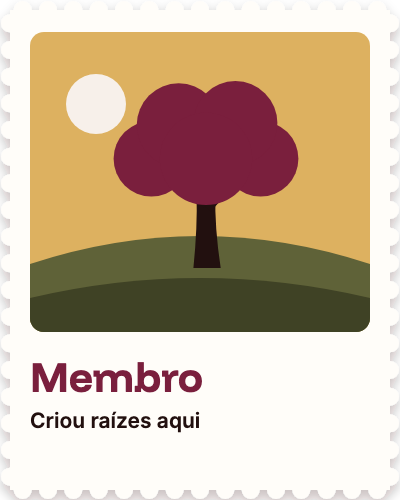
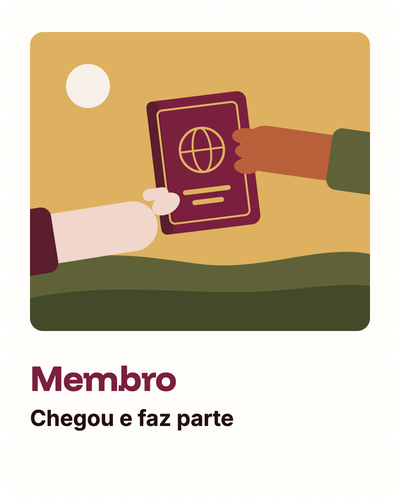
Selos no fim do check-in, rótulo Visitante / Membro, pesquisa anônima e formulário identificado

diff --git a/src/pages/Checkin.tsx b/src/pages/Checkin.tsx
@@ -59,9 +59,10 @@ function Success({ done, previa }: { done: Done; previa?: boolean }) {
           <h1>Presença confirmada!</h1>
           <p className="dn-bilhete__texto">Que bom ter você aqui.</p>
           {!!done.junto?.length && <QuemVeio codigo={done.codigo} junto={done.junto} />}
+          <img className="dn-selo" src={`/selos/postal-${done.categoria === 'convidado' ? 'convidado' : 'visitante'}.png`} alt={`Selo de ${done.categoria === 'convidado' ? 'Convidado' : 'Visitante'}`} />
           <dl className="dn-dados">
             <div><dt>Nome</dt><dd>{done.nome}</dd></div>
-            <div><dt>Status</dt><dd>Visitante</dd></div>
+            <div><dt>Status</dt><dd>{done.categoria === 'convidado' ? 'Convidado' : 'Visitante'}</dd></div>
           </dl>
           <p className="dn-bilhete__texto">Aproveite o encontro. Qualquer dúvida, chame alguém do staff.</p>
         </section>
@@ -146,7 +147,7 @@ export function Checkin() {
     };
   }, [step, email, slug, meta, texts, inscritoNome]);
 
-  if (previaCartao) return <Success previa done={{ nome: 'Maria Silva', categoria: 'convidado', edicao: 'Primeiro encontro', selo: '', codigo: 'EXEMPLO', repetido: false }} />;
+  if (previaCartao) return <Success previa done={{ nome: 'Maria Silva', categoria: new URLSearchParams(window.location.search).get('tipo') === 'visitante' ? 'participante' : 'convidado', edicao: 'Primeiro encontro', selo: '', codigo: 'EXEMPLO', repetido: false }} />;
   if (done) return <Success done={done} />;
   if (step === 'recepcao') return (
     <main className="dn-pg"><div className="dn-pg-faixa" /><img className="dn-pg-logo" src="/brand/communicali-horizontal.png" alt="ComuniCALI" />

diff --git a/src/forms/PublicFormPage.tsx b/src/forms/PublicFormPage.tsx
@@ -327,10 +327,14 @@ export function PublicFormPage({ preset, slugFixo }: { preset?: FormPreset; slug
         <span className="cf-done-mark"><img src="/brand/cali-oak-mark-light.svg" alt="" /></span>
         {(() => {
           // Mensagem própria do formulário: a primeira frase curta vira o título; o resto, o texto.
-          const custom = form.success_text?.trim();
+          const bruto = form.success_text?.trim();
+          // Uma última linha [texto](/endereço) vira um botão que abre em outra aba (ex.: da pesquisa anônima para o formulário identificado).
+          const ligacao = bruto?.match(/\n?\[([^\]]+)\]\((\/[^)\s]*)\)\s*$/);
+          const custom = ligacao ? bruto!.slice(0, ligacao.index).trim() : bruto;
+          const botao = ligacao ? <a className="cf-primary" href={ligacao[2]} target="_blank" rel="noopener noreferrer" style={{ textDecoration: 'none', marginTop: 18 }}>{ligacao[1]} <ArrowRight size={18} /></a> : null;
           if (!custom) return <><h1>Muito obrigado!</h1><p>Recebemos suas respostas e agradecemos a colaboração.</p></>;
           const match = custom.match(/^(.{4,70}?[!.?])\s+(.+)$/s);
-          return match ? <><h1>{match[1]}</h1><p>{match[2]}</p></> : <><h1>Muito obrigado!</h1><p>{custom}</p></>;
+          return <>{match ? <><h1>{match[1]}</h1><p>{match[2]}</p></> : <><h1>Muito obrigado!</h1><p>{custom}</p></>}{botao}</>;
         })()}
       </div>}
     </main>

diff --git a/src/dinamica/Apoio.tsx b/src/dinamica/Apoio.tsx
@@ -112,7 +112,7 @@ function Recepcao({ token, qr }: { token: string; qr: string }) {
       <ul className="dn-lista">
         {visiveis.map((item) => (
           <li key={`${item.fonte}-${item.id}`} className={`dn-p-${corCategoria(item.categoria)}${item.chegou_em ? ' chegou' : ''}`}>
-            <span><b>{item.nome}</b><small><i className={`dn-cat dn-cat--${corCategoria(item.categoria)}`}>{item.categoria === 'Participante' ? 'Participante / Membro' : item.categoria}</i>{item.email ? ` ${item.email}` : ''}</small></span>
+            <span><b>{item.nome}</b><small><i className={`dn-cat dn-cat--${corCategoria(item.categoria)}`}>{item.categoria === 'Participante' ? 'Visitante / Membro' : item.categoria}</i>{item.email ? ` ${item.email}` : ''}</small></span>
             {item.fonte === 'organizacao' ? <em>{item.chegou_em ? 'Chegou' : ''}</em>
               : item.chegou_em ? <button type="button" className="dn-link" onClick={() => void marcar(item, false)}>Chegou às {new Date(item.chegou_em).toLocaleTimeString('pt-BR', { hour: '2-digit', minute: '2-digit', timeZone: 'America/Sao_Paulo' })} ✓ (desfazer)</button>
               : <button type="button" className="dn-btn" onClick={() => void marcar(item, true)}>Chegou</button>}

diff --git a/src/dinamica/dinamica.css b/src/dinamica/dinamica.css
@@ -192,3 +192,5 @@ a.dn-btn{display:flex;align-items:center;justify-content:center;text-decoration:
 .dn-cat--kids{background:#3F8F4F;color:#fff}
 .dn-cat--participante{background:#7A1F3D;color:#fff}
 .dn-cat--convidado{background:#D9A21B;color:#22100F}
+
+.dn-selo{display:block;width:150px;height:auto;margin:6px auto 2px;filter:drop-shadow(0 6px 10px rgba(0,0,0,.28))}

diff --git a/docs/HANDOFF.md b/docs/HANDOFF.md
@@ -11,6 +11,9 @@ Documento único de continuidade entre as IAs que trabalham com Patrícia Lima. 
 ### 2026-11-13 | Check-in como Visitante, e-mails do dia do encontro e correções (publicado)
 - Check-in: a tela de presença mostra só Nome e "Status: Visitante" (sem categoria, sem milhas, sem lembrete de devolver o crachá: neste encontro todos ficam com o crachá). E-mail que não está na lista vê "Procure a organização na recepção" em vez do cadastro de 13 perguntas (`step 'recepcao'` em `Checkin.tsx`). Membro já cadastrado continua entrando por código no e-mail.
 - Recepção no link do apoio: aba "Recepção" em `/apoio/:token` (`?aba=recepcao`) com os confirmados (nome, categoria, e-mail), busca sem acento, "Chegou" que marca no celular e contagem; atualiza a cada 5 s. Quem não aparece na busca vê "Não está na lista" e o QR do check-in. Migração `20261113100000_apoio_recepcao.sql` (`communicali_apoio_lista`, `communicali_apoio_chegada`; colunas `chegou_em` em `registrations` e `guests`). Chegada pela recepção grava `chegou_em` na origem; chegada pelo QR continua em `checkins`, e a lista mostra a mais antiga das duas.
+- IDENTIDADE NOVA CANCELADA PARA O EVENTO (13/11): o agendamento das 14h de 14/11 foi removido (arquivos em `~/CALI/agendamento-cancelado/`). Tudo segue na identidade atual até a Patrícia falar depois do evento. Única exceção liberada: selos das categorias.
+- Selos no fim do check-in: Visitante (participantes) e Convidado, com o selo novo (`public/selos/postal-convidado.png` e `postal-membro.png` trocados, 400x500). Lista da recepção: "Visitante / Membro" (cor bordô), Convidado (amarelo), Kids (verde). O check-in pelo QR é obrigatório para todos; "Chegou" é só da lista da recepção.
+- Pesquisa em duas partes (migração `20261113130000_pesquisa_anonima_e_continuar.sql`): `pesquisa-1a-edicao` agora é anônima (sem nome, depoimento, citação e imagem) e a tela final tem um botão para `/f/continuar-com-a-comunidade` em nova aba (linha final `[texto](/f/slug)` no `success_text` vira botão em `PublicFormPage.tsx`). O formulário identificado tem perguntas condicionais (convidado x visitante/membro), interesse em saber os próximos passos, e-mail novo opcional, depoimento, citação com nome e autorização de imagem, com o texto explicando que a categoria do crachá mudou.
 - PASSAPORTE TRANCADO (decisão da Patrícia, 13/11): ninguém entra no passaporte até a liberação, prevista para quinta-feira 19/11. Só fundadora e organizador (categorias) veem. Chave: `site_settings.passaporte_aberto` (padrão false; migração `20261113110000_passaporte_trancado.sql`, `communicali_meu_espaco` devolve `em_breve`). Para liberar: `update public.site_settings set passaporte_aberto = true;`. Isso também fecha o passaporte dos 12 membros antigos (membro, conector, embaixador). Mensagem na tela: "O passaporte ainda não está disponível".
 - Painel Início: o cartão "Membros" passou a se chamar "Visitantes" (mesma contagem de `members`). Recepção do apoio: lista colorida (Kids verde, Participante / Membro bordô, Convidado amarelo).
 - PENDENTE depois do evento: e-mail pós-encontro perguntando se a pessoa quer fazer parte oficialmente da comunidade (explicar a fase Visitante e a adesão gratuita como Membro; texto e regras ainda a definir com a Patrícia). Quem usa Outlook/Hotmail ficou com e-mails atrasados no dia 13/11 (instabilidade da Microsoft): conferir entregas e reenviar.
